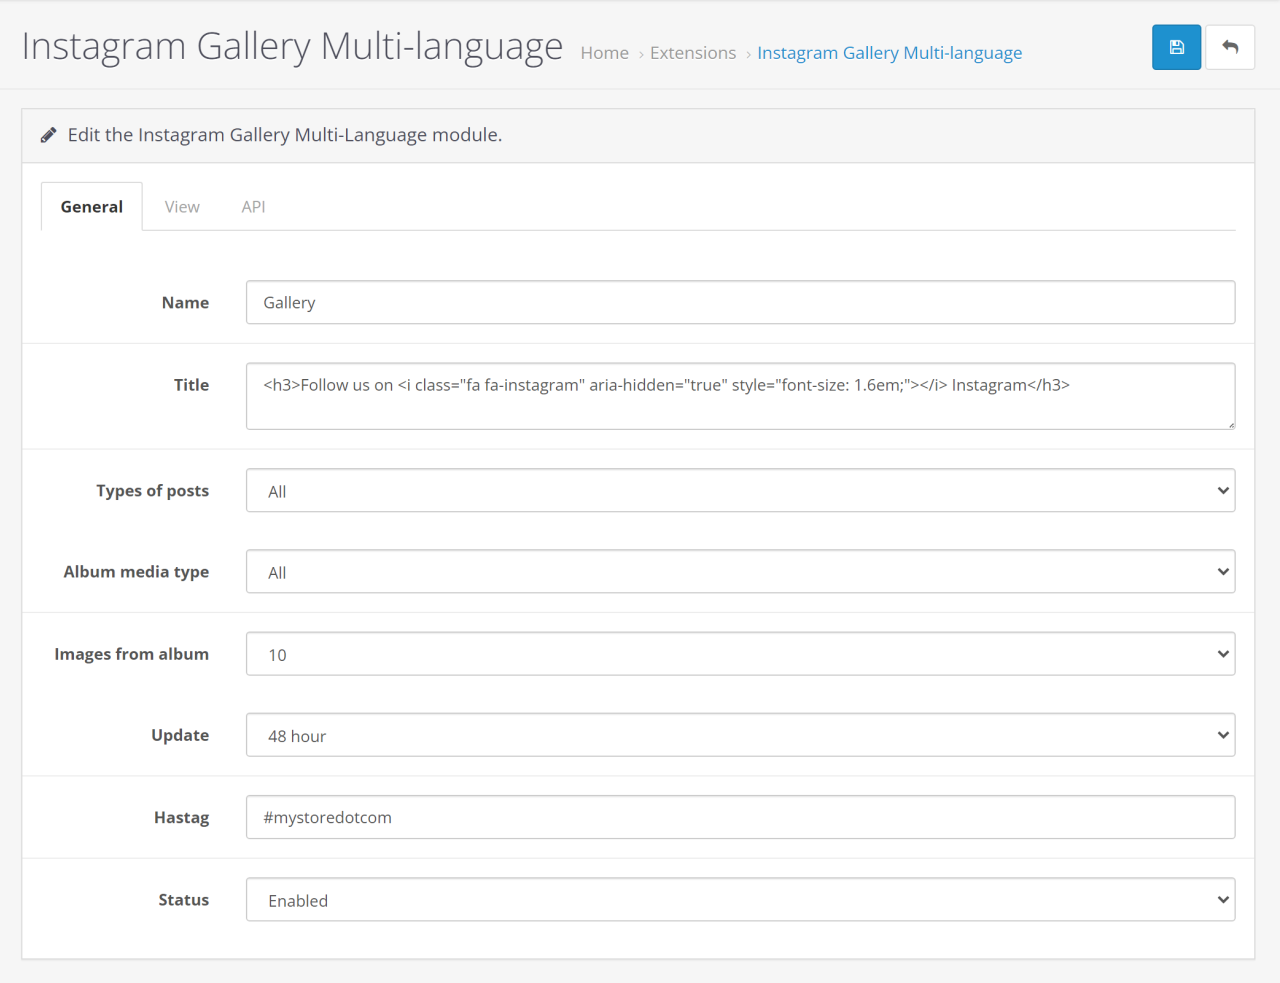
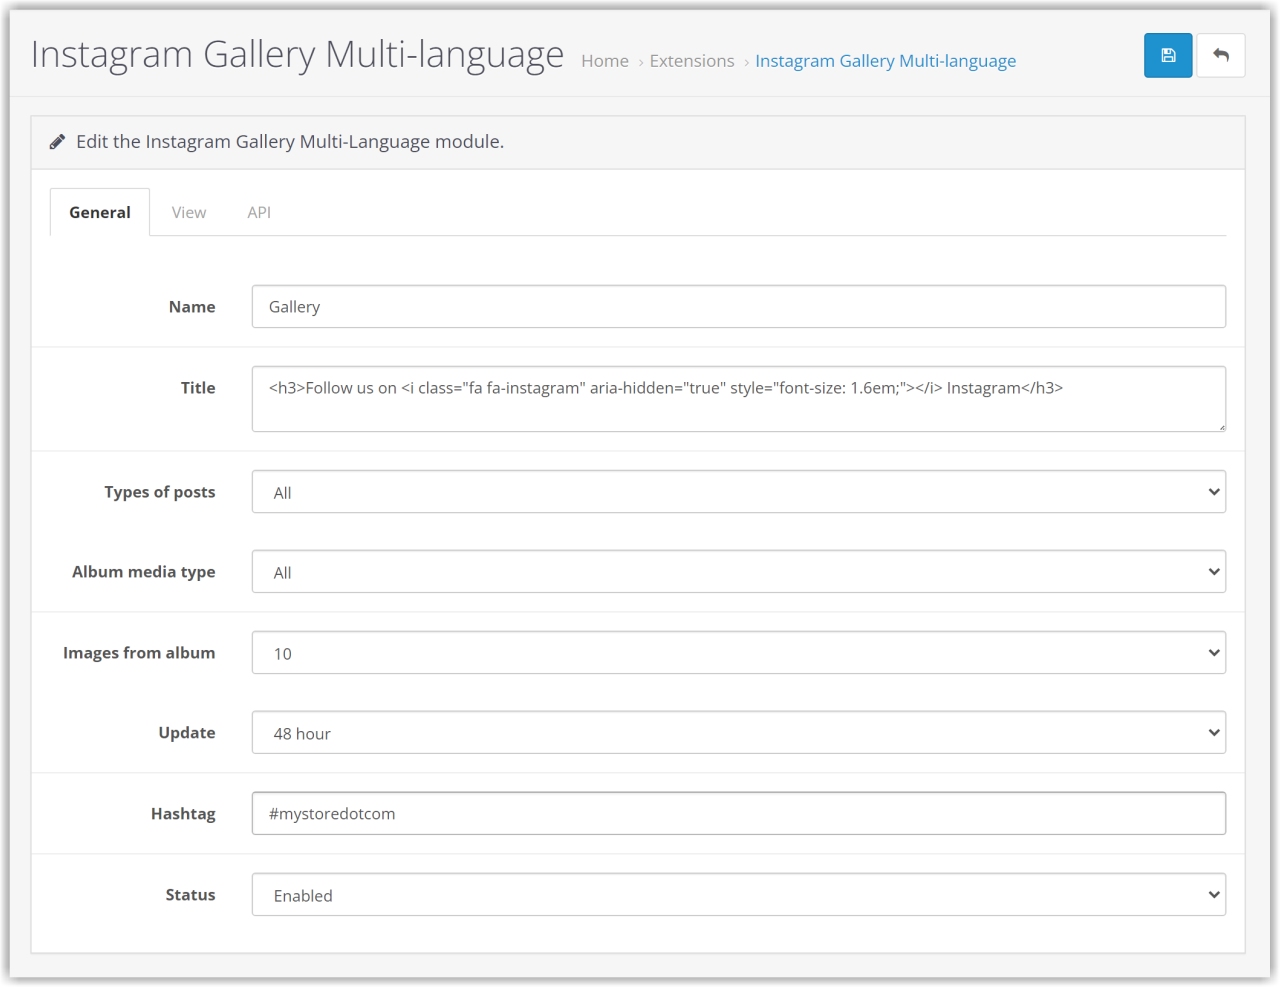
hastag

diff --git a/leiame.md b/leiame.md
@@ -21,6 +21,7 @@
   - [Adicionar um usuário de teste do Instagram](#adicionar-um-usuário-de-teste-do-instagram)
   - [Autenticar o usuário](#autenticar-o-usuário)
 - [Aba de configuração geral](#aba-de-configuração-geral)
+  - [Hashtag](#hashtag)
 - [Aba de configuração de visualização](#aba-de-configuração-de-visualização)
 - [Exibir a galeria no layout.](#exibir-a-galeria-no-layout)
 - [Permissões de acesso e modificação](#permissões-de-acesso-e-modificação)
@@ -183,8 +184,12 @@ A configuração para o Instagram Basic Display e a API do módulo está complet
 + **Tipo de mídia do álbum**: Tipos de mídia que serão fornecidos dos álbuns.
 + **Imagens do álbum**: A quantidade de mídia que será fornecida dos álbuns.
 + **Atualização**: Período durante o qual a imagem mais antiga da galeria será atualizada.
-+ **Hastag**: Hashtag usada para marcar os posts que o módulo irá procurar..
++ **Hashtag**: Hashtag usada para marcar os posts que o módulo irá procurar.
 + **Status**: Status da galeria.
+
+## Hashtag
+Na aba Geral, configure a hashtag que será utilizada para marcar os posts que o módulo deverá procurar para criar a galeria. Postagens que não tiverem a hashtag serão ignoradas pelo módulo.
+<p align="center"><img src="images/hashtag.png" width="600" alt="Hashtag" title="Hashtag"></p>
 
 # Aba de configuração de visualização
 <p align="center"><img src="images/view_tab.png" width="600" alt="Configuração de visualização" title="Configuração de visualização"></p>

diff --git a/README.md b/README.md
@@ -21,6 +21,7 @@
   - [Add an Instagram Test User](#add-an-instagram-test-user)
   - [Authenticate the User](#authenticate-the-user)
 - [General configuration tab](#general-configuration-tab)
+  - [Hashtag](#hashtag)
 - [View configuration tab](#view-configuration-tab)
 - [Display the gallery in the layout.](#display-the-gallery-in-the-layout)
 - [Access and Modification Permissions](#access-and-modification-permissions)
@@ -173,8 +174,12 @@ The setup for Instagram Basic Display and Module API is complete when the API st
 + **Album media type**: Types of media that will be provided from the albums.
 + **Images from album**: The quantity of media that will be provided from the albums.
 + **Update**: Period during which the oldest image in the gallery will be updated.
-+ **Hastag**: Hashtag used to mark the posts that the module will look for.
++ **Hashtag**: Hashtag used to mark the posts that the module will look for.
 + **Status**: Gallery status.
+
+## Hashtag
+On the General tab, configure the hashtag that will be used to tag the posts that the module will look for to create the gallery. Posts that do not have the hashtag will be ignored by the module.
+<p align="center"><img src="images/hashtag.png" width="600" alt="Hashtag" title="Hashtag"></p>
 
 # View configuration tab
 <p align="center"><img src="images/view_tab.png" width="600" alt="View configuration" title="View configuration"></p>
